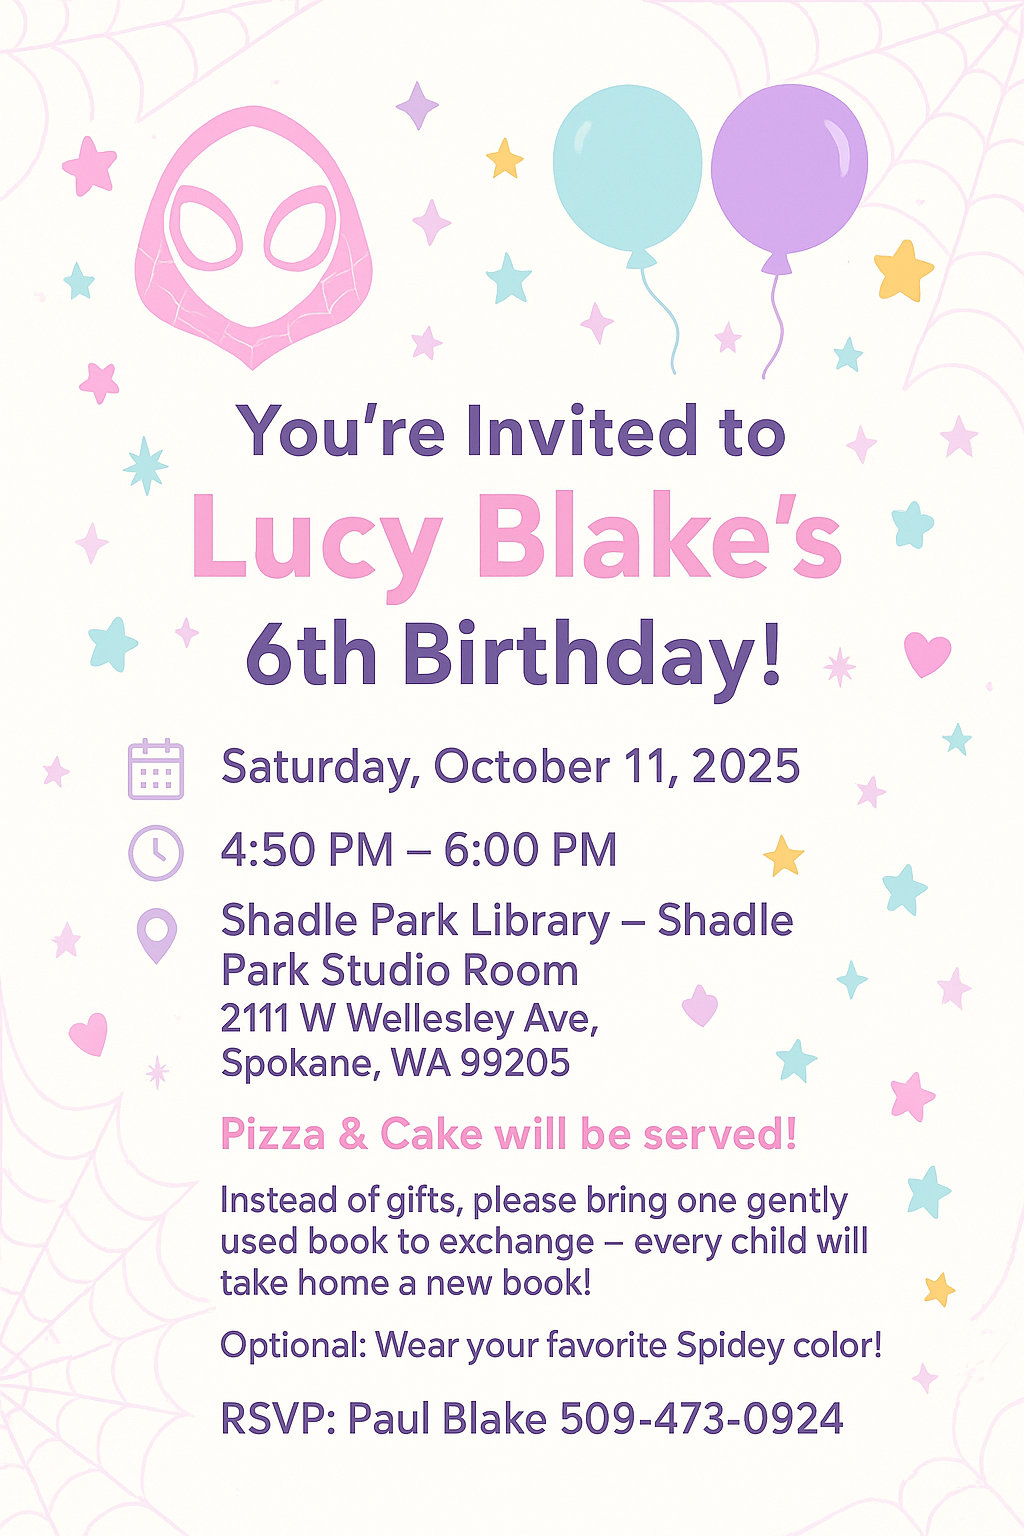
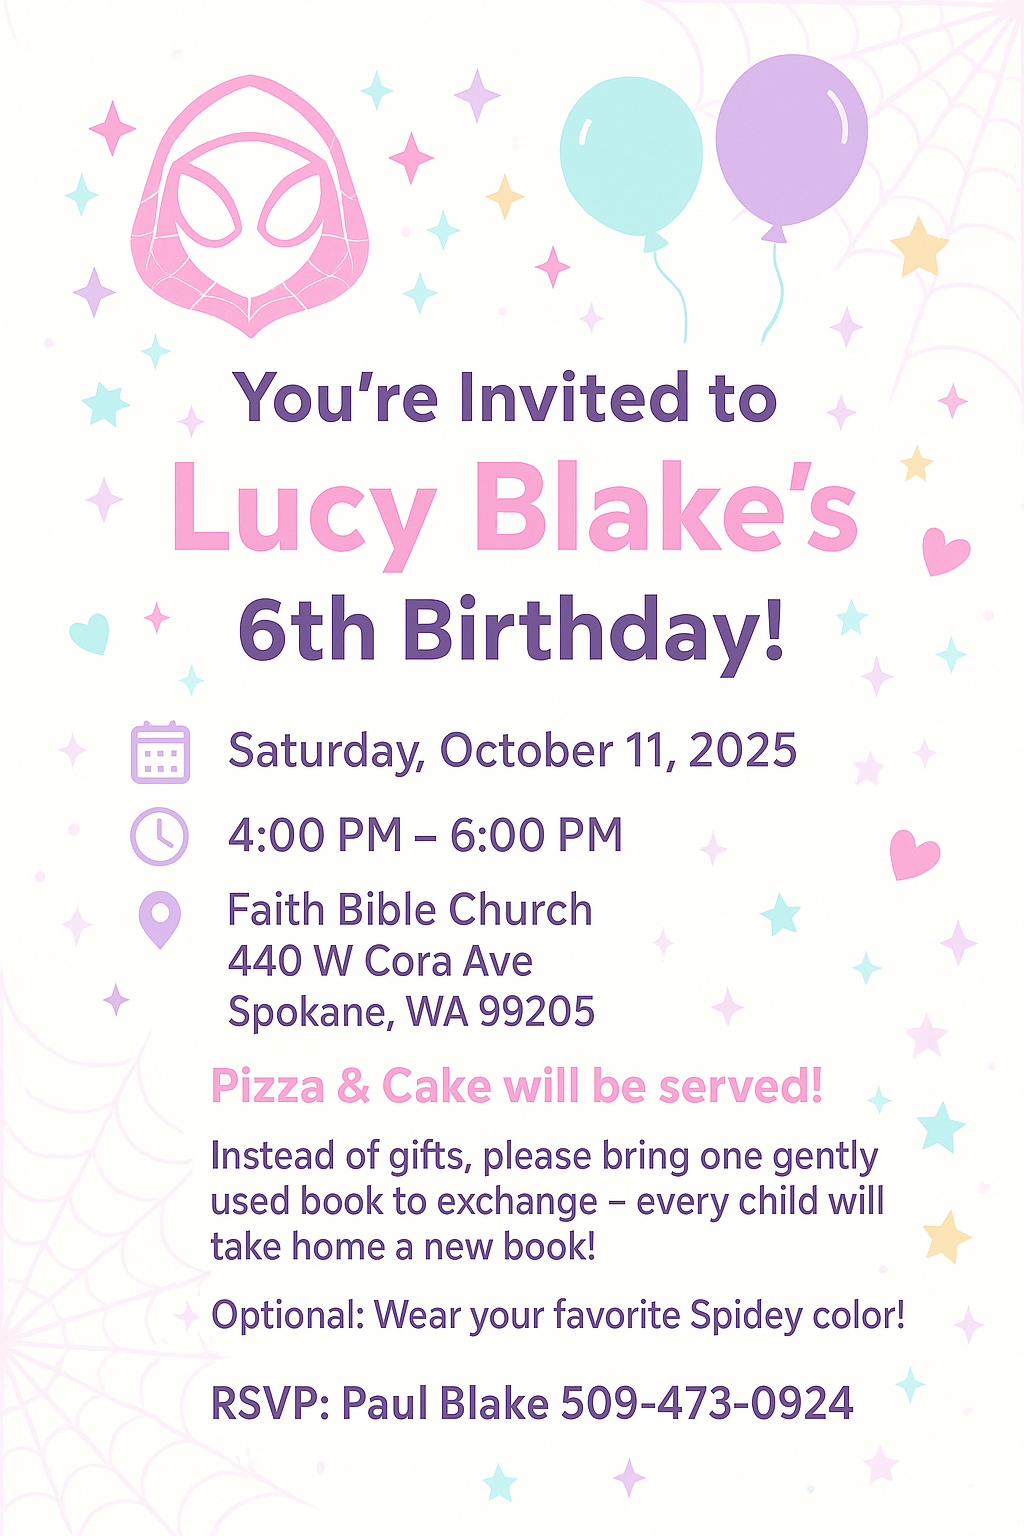
fix: update event details for Lucy's Party invitation
- Corrected the event time from 4:50 PM to 4:00 PM for accuracy.
- Changed the venue from Shadle Park Library to Faith Bible Church, including updated address details.

This update ensures that the invitation reflects the correct event timing and location, enhancing clarity for attendees.

diff --git a/pages/lucys_party.js b/pages/lucys_party.js
@@ -152,7 +152,7 @@ export default function LucysParty() {
             <h3>When</h3>
             <p className="detail-text">
               <strong>October 11th, 2025</strong><br />
-              4:50 PM - 6:00 PM
+              4:00 PM - 6:00 PM
             </p>
           </div>
 
@@ -160,9 +160,8 @@ export default function LucysParty() {
             <div className="card-icon">📍</div>
             <h3>Where</h3>
             <p className="detail-text">
-              <strong>Shadle Park Library</strong><br />
-              Shadle Park Studio Room<br />
-              2111 W. Wellesley Ave<br />
+              <strong>Faith Bible Church</strong><br />
+              440 W Cora Ave<br />
               Spokane, WA 99205
             </p>
           </div>

diff --git a/data/README.md b/data/README.md
@@ -1,0 +1,41 @@
+# Party RSVP Data Directory
+
+This directory stores RSVP submissions for Lucy's Party.
+
+## Important Notes
+
+**⚠ Data Persistence:**
+- This directory is mounted as a Docker volume in production (see `docker-compose.yml`)
+- The `party-rsvps.json` file persists between deployments
+- When you update the site, RSVPs are preserved on the server
+
+**🔒 Security:**
+- This data is tracked in git for initial setup
+- The production server's data file will diverge from git (it will have real RSVPs)
+- Never overwrite the production data file manually
+
+## Files
+
+- `party-rsvps.json` - JSON array of RSVP submissions
+- `.gitkeep` - Ensures directory structure is preserved in git
+- `README.md` - This file
+
+## Recovery
+
+If you need to backup or restore RSVPs from the production server:
+
+```bash
+# Backup from server
+docker cp paul-blake-site:/app/data/party-rsvps.json ~/party-rsvps-backup.json
+
+# Restore to server (be careful!)
+docker cp ~/party-rsvps-backup.json paul-blake-site:/app/data/party-rsvps.json
+```
+
+## Deployment
+
+The volume mount in `docker-compose.yml` maps:
+- Host: `./data` (relative to docker-compose.yml)
+- Container: `/app/data`
+
+This ensures RSVPs persist between container restarts and updates.
